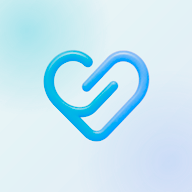
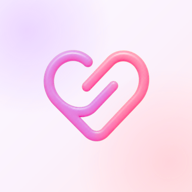
refactor: 관리 공간 조정 — 수수료→중고, 리뷰→스토어, 이름 변경, 카탈로그 아이콘
- 중고 판매 수수료 설정 /admin/settings → /market/settings(requireUsedManager)
- 상품 리뷰 관리 /admin/reviews → /delivery/reviews(requireDeliveryManager)
- 표시명: '스토어 관리'(delivery)·'커뮤니티 관리'(board), app-name 커뮤니티, 바로가기 라벨
- 토레카 카탈로그 PWA 아이콘 마젠타로 교체
- 메인 nav 에서 리뷰·설정 항목 제거(각 공간으로 이동), delivery 정산 nav 항목 제거

diff --git a/modules/admin/lib/nav.ts b/modules/admin/lib/nav.ts
@@ -12,7 +12,6 @@ import {
   MessageSquare,
   Package,
   Store,
-  Settings,
   ShoppingBag,
   Star,
   Tag,
@@ -105,14 +104,6 @@ export const ADMIN_SECTIONS: NavSection[] = [
         matchPrefix: "/admin/banners",
         role: "siteAdmin",
       },
-      {
-        key: "reviews",
-        label: "리뷰",
-        href: "/admin/reviews",
-        icon: Star,
-        matchPrefix: "/admin/reviews",
-        role: "siteAdmin",
-      },
     ],
   },
   {
@@ -137,25 +128,12 @@ export const ADMIN_SECTIONS: NavSection[] = [
     ],
   },
   {
-    title: "스토어",
-    items: [
-      {
-        key: "settings",
-        label: "설정",
-        href: "/admin/settings",
-        icon: Settings,
-        matchPrefix: "/admin/settings",
-        role: "siteAdmin",
-      },
-    ],
-  },
-  {
     title: "바로가기",
     items: [
-      // 스토어·배송·중고·게시판·토레카는 각각 별도 공간에서 — 메인에서는 진입 링크만(역방향은 없음).
+      // 스토어·중고·커뮤니티·토레카는 각각 별도 공간에서 — 메인에서는 진입 링크만(역방향은 없음).
       {
         key: "to-delivery",
-        label: "스토어 · 배송 관리 →",
+        label: "스토어 관리 →",
         href: "/delivery",
         icon: Truck,
         role: "siteAdmin",
@@ -169,7 +147,7 @@ export const ADMIN_SECTIONS: NavSection[] = [
       },
       {
         key: "to-board",
-        label: "게시판 관리 →",
+        label: "커뮤니티 관리 →",
         href: "/board",
         icon: MessageSquare,
         role: "siteAdmin",
@@ -220,6 +198,14 @@ export const MARKET_SECTIONS: NavSection[] = [
         matchPrefix: "/market/blocked",
         role: "used",
       },
+      {
+        key: "fee",
+        label: "판매 수수료",
+        href: "/market/settings",
+        icon: Coins,
+        matchPrefix: "/market/settings",
+        role: "used",
+      },
     ],
   },
 ];
@@ -248,6 +234,14 @@ export const DELIVERY_SECTIONS: NavSection[] = [
         href: "/delivery/orders",
         icon: ShoppingBag,
         matchPrefix: "/delivery/orders",
+        role: "delivery",
+      },
+      {
+        key: "reviews",
+        label: "리뷰",
+        href: "/delivery/reviews",
+        icon: Star,
+        matchPrefix: "/delivery/reviews",
         role: "delivery",
       },
     ],

diff --git a/tests/modules/admin/lib/nav.test.ts b/tests/modules/admin/lib/nav.test.ts
@@ -141,16 +141,20 @@ describe("실제 섹션 정의", () => {
     expect(visibleSections(ADMIN_SECTIONS, viewer(false, ["community"]))).toEqual([]);
   });
 
-  it("스토어·배송 공간은 상품·주문·배송을 담고 delivery 권한자에게 열린다", () => {
+  it("스토어 관리 공간은 상품·주문·리뷰·배송을 담고 delivery 권한자에게 열린다", () => {
     const hrefs = DELIVERY_SECTIONS.flatMap((s) => s.items.map((i) => i.href));
     expect(hrefs).toContain("/delivery/products");
     expect(hrefs).toContain("/delivery/orders");
+    expect(hrefs).toContain("/delivery/reviews");
     expect(hrefs).toContain("/delivery/policy");
-    // 상품·주문은 더 이상 메인 관리자에 없다(정산 메뉴는 제거됨).
+    // 상품·주문·리뷰는 더 이상 메인 관리자에 없다(정산 메뉴는 제거됨).
     const adminHrefs = ADMIN_SECTIONS.flatMap((s) => s.items.map((i) => i.href));
     expect(adminHrefs).not.toContain("/admin/products");
     expect(adminHrefs).not.toContain("/admin/orders");
+    expect(adminHrefs).not.toContain("/admin/reviews");
     expect(hrefs).not.toContain("/delivery/settlement");
+    // 중고거래 수수료 설정은 중고 관리 공간으로 옮겼다.
+    expect(MARKET_SECTIONS.flatMap((s) => s.items.map((i) => i.href))).toContain("/market/settings");
     expect(visibleSections(DELIVERY_SECTIONS, viewer(false, ["delivery"])).length).toBeGreaterThan(0);
   });
 

diff --git a/modules/site-settings/actions.ts b/modules/site-settings/actions.ts
@@ -3,7 +3,7 @@
 import { revalidatePath } from "next/cache";
 import { z } from "zod";
 import { db } from "@/lib/db";
-import { requireAdmin } from "@/modules/admin/lib/requireAdmin";
+import { requireUsedManager } from "@/modules/admin/lib/requireAdminSpace";
 
 const usedTradeSettingSchema = z.object({
   // 만분율(bp): 1000 = 10%. DB CHECK(0~5000)와 동일 범위를 입력단에서도 강제.
@@ -14,7 +14,7 @@ const usedTradeSettingSchema = z.object({
 // 기능 온오프는 제거됐다(상시 활성). used_trade_enabled 컬럼은 더 이상 읽지도 쓰지도 않는다
 // (NOT NULL DEFAULT false — db/schema.sql — 이라 create 시 기본값으로 채워진다).
 export async function updateUsedTradeSetting(input: { feeBp: number }): Promise<void> {
-  await requireAdmin();
+  await requireUsedManager();
   const data = usedTradeSettingSchema.parse(input);
 
   await db.siteSetting.upsert({
@@ -23,6 +23,6 @@ export async function updateUsedTradeSetting(input: { feeBp: number }): Promise<
     update: { usedTradeFeeBp: data.feeBp, updatedAt: new Date() },
   });
 
-  revalidatePath("/admin/settings");
+  revalidatePath("/market/settings");
   revalidatePath("/used");
 }

diff --git a/modules/reviews/actions.ts b/modules/reviews/actions.ts
@@ -11,7 +11,7 @@ import { db } from "@/lib/db";
 import { getCurrentAccount } from "@/modules/auth/dal";
 import { grantReviewPoints } from "@/modules/points/lib/grant";
 import { REVIEW_POINTS } from "@/modules/points/lib/rules";
-import { requireAdmin } from "@/modules/admin/lib/requireAdmin";
+import { requireDeliveryManager } from "@/modules/admin/lib/requireAdminSpace";
 import type { OrderStatus } from "@/modules/orders/types";
 import { canReviewOrderStatus } from "./lib/rules";
 import {
@@ -97,7 +97,7 @@ export async function adminDeleteReview(
   input: ReviewDeleteInput,
 ): Promise<ActionResult> {
   return runAction(async () => {
-    await requireAdmin();
+    await requireDeliveryManager();
     const data = parseActionInput(reviewDeleteSchema, input);
     const result = await db.productReview.deleteMany({
       where: { id: BigInt(data.reviewId) },
@@ -105,7 +105,7 @@ export async function adminDeleteReview(
     if (result.count === 0) {
       throw new DomainError("리뷰를 찾을 수 없습니다");
     }
-    revalidatePath("/admin/reviews");
+    revalidatePath("/delivery/reviews");
   });
 }
 

diff --git a/app/(market)/market/settings/page.tsx b/app/(market)/market/settings/page.tsx
@@ -3,15 +3,15 @@ import { AdminPageHeader } from "@/modules/admin/components/AdminPageHeader";
 import { getSiteSettings } from "@/modules/site-settings/lib/queries";
 import { UsedTradeSettingForm } from "@/modules/site-settings/components/UsedTradeSettingForm";
 
-// 관리자 — 사이트 전역 설정 (중고거래 수수료).
-export default async function AdminSettingsPage() {
+// 중고거래 관리 — 판매 수수료 설정.
+export default async function MarketFeeSettingPage() {
   const settings = await getSiteSettings();
 
   return (
     <AdminPage>
       <AdminPageHeader
-        title="설정"
-        description="사이트 전체에 즉시 반영되는 전역 설정이에요."
+        title="판매 수수료"
+        description="중고거래 판매 수수료율이에요. 거래 시점에 스냅샷되어 이후 변경해도 진행 중 거래엔 영향 없어요."
       />
       <UsedTradeSettingForm initialFeeBp={settings.usedTradeFeeBp} />
     </AdminPage>

diff --git a/modules/admin/components/AdminShell.tsx b/modules/admin/components/AdminShell.tsx
@@ -40,20 +40,20 @@ const SCOPE: Record<
     navLabel: "카탈로그 메뉴",
   },
   board: {
-    title: "게시판 관리",
+    title: "커뮤니티 관리",
     badge: "COMMUNITY",
     badgeClassName: "bg-mint/40 text-ink",
     homeHref: "/board",
     sections: BOARD_SECTIONS,
-    navLabel: "게시판 관리 메뉴",
+    navLabel: "커뮤니티 관리 메뉴",
   },
   delivery: {
-    title: "스토어 · 배송 관리",
+    title: "스토어 관리",
     badge: "STORE",
     badgeClassName: "bg-cyan/25 text-ink",
     homeHref: "/delivery",
     sections: DELIVERY_SECTIONS,
-    navLabel: "스토어 · 배송 관리 메뉴",
+    navLabel: "스토어 관리 메뉴",
   },
   market: {
     title: "중고거래 관리",

diff --git a/app/(board)/board/page.tsx b/app/(board)/board/page.tsx
@@ -53,7 +53,7 @@ export default async function BoardHomePage() {
 
   return (
     <AdminPage className="space-y-6">
-      <AdminPageHeader title="게시판 관리" description="신고 처리와 커뮤니티 운영을 한곳에서." />
+      <AdminPageHeader title="커뮤니티 관리" description="신고 처리와 커뮤니티 운영을 한곳에서." />
 
       <section className="grid grid-cols-2 gap-3 lg:grid-cols-4">
         {stats.map((s) => {

diff --git a/modules/admin/lib/adminRoles.ts b/modules/admin/lib/adminRoles.ts
@@ -9,7 +9,7 @@ export const ADMIN_SPACES = ["delivery", "used", "community", "catalog"] as cons
 export type AdminSpace = (typeof ADMIN_SPACES)[number];
 
 export const ADMIN_SPACE_LABEL: Record<AdminSpace, string> = {
-  delivery: "스토어·배송 관리",
+  delivery: "스토어 관리",
   used: "중고거래 관리",
   community: "커뮤니티 관리",
   catalog: "토레카 관리",

diff --git a/modules/dashboard/components/Dashboard.tsx b/modules/dashboard/components/Dashboard.tsx
@@ -139,7 +139,7 @@ export function Dashboard({ data, publicBaseUrl }: Props) {
               ? "아직 없음"
               : `${business.reviewCount}건 · 평균 ${business.reviewAverage ?? "-"}점`
           }
-          href="/admin/reviews"
+          href="/delivery/reviews"
         />
         <MiniStat
           icon={<Coins className="h-4 w-4" />}

diff --git a/lib/app-name.ts b/lib/app-name.ts
@@ -40,7 +40,7 @@ export const APP_NAMES = {
   consumer: "이로이로",
   admin: "이로이로 관리자",
   catalog: "이로이로 토레카",
-  board: "이로이로 게시판",
+  board: "이로이로 커뮤니티",
   delivery: "이로이로 스토어",
   market: "이로이로 중고거래",
 } as const;

diff --git a/app/(board)/board/manifest.webmanifest/route.ts b/app/(board)/board/manifest.webmanifest/route.ts
@@ -7,7 +7,7 @@ export function GET(): Response {
   const manifest = {
     id: "/board",
     name,
-    short_name: appDisplayName("게시판"),
+    short_name: appDisplayName("커뮤니티"),
     description: "이로이로 커뮤니티·신고 관리 콘솔",
     start_url: "/board",
     scope: "/board",
